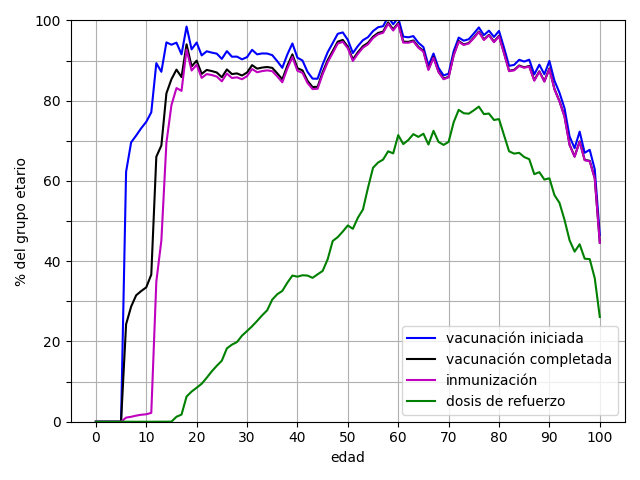
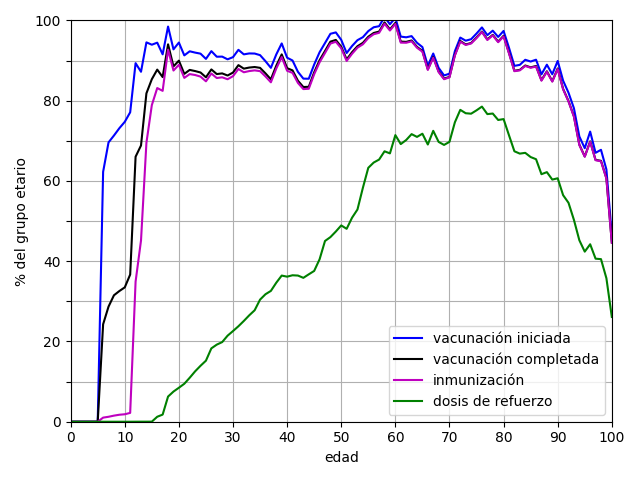
xaxis

diff --git a/vacunacion.py b/vacunacion.py
@@ -185,6 +185,7 @@ def avance_edad(plot=False, show=True):
         ax.set_ylabel('% del grupo etario')
         ax.set_xlabel('edad')
         ax.set_ylim(0,100)
+        ax.set_xlim(0,100)
 
         xticks = range(0, 101, 10)
         ax.set_xticks(xticks)
